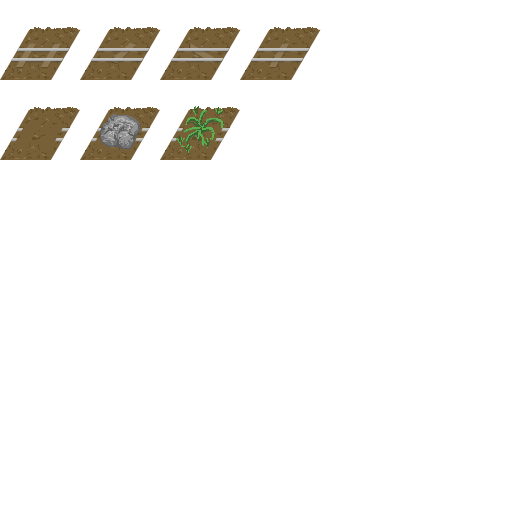
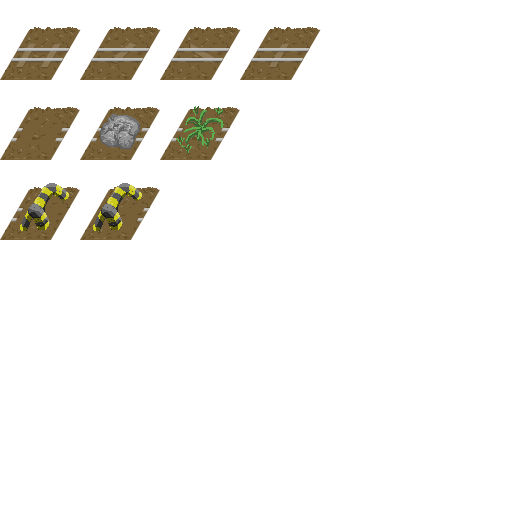
added tiles for start and end

Changed region(s): [[0.0, 0.3438, 0.3125, 0.4688]]

diff --git a/game/prefabs/rail.js b/game/prefabs/rail.js
@@ -26,9 +26,7 @@ Rail.prototype.generateRail = function(map){
 
 Rail.prototype.getSpriteIndex = function(){
   var idxs = [0,0,3,0,0,3,0,0,3,0,0,0,1,2,3];
-  var idx = Math.round(Math.random() * idxs.length);
-
-  return idxs[idx];
+  return this.game.rnd.pick(idxs);
 };
 
 Rail.prototype.doRegenerate = function(map, i){

diff --git a/game/utils/obstacleTypes.js b/game/utils/obstacleTypes.js
@@ -24,7 +24,7 @@ ObstacleTypes = {
 	},
 	"-1" : {
 		res: "env",
-		frame: "floor",
+		frame: "stop_right",
 		type: "win"
 	}
 };
